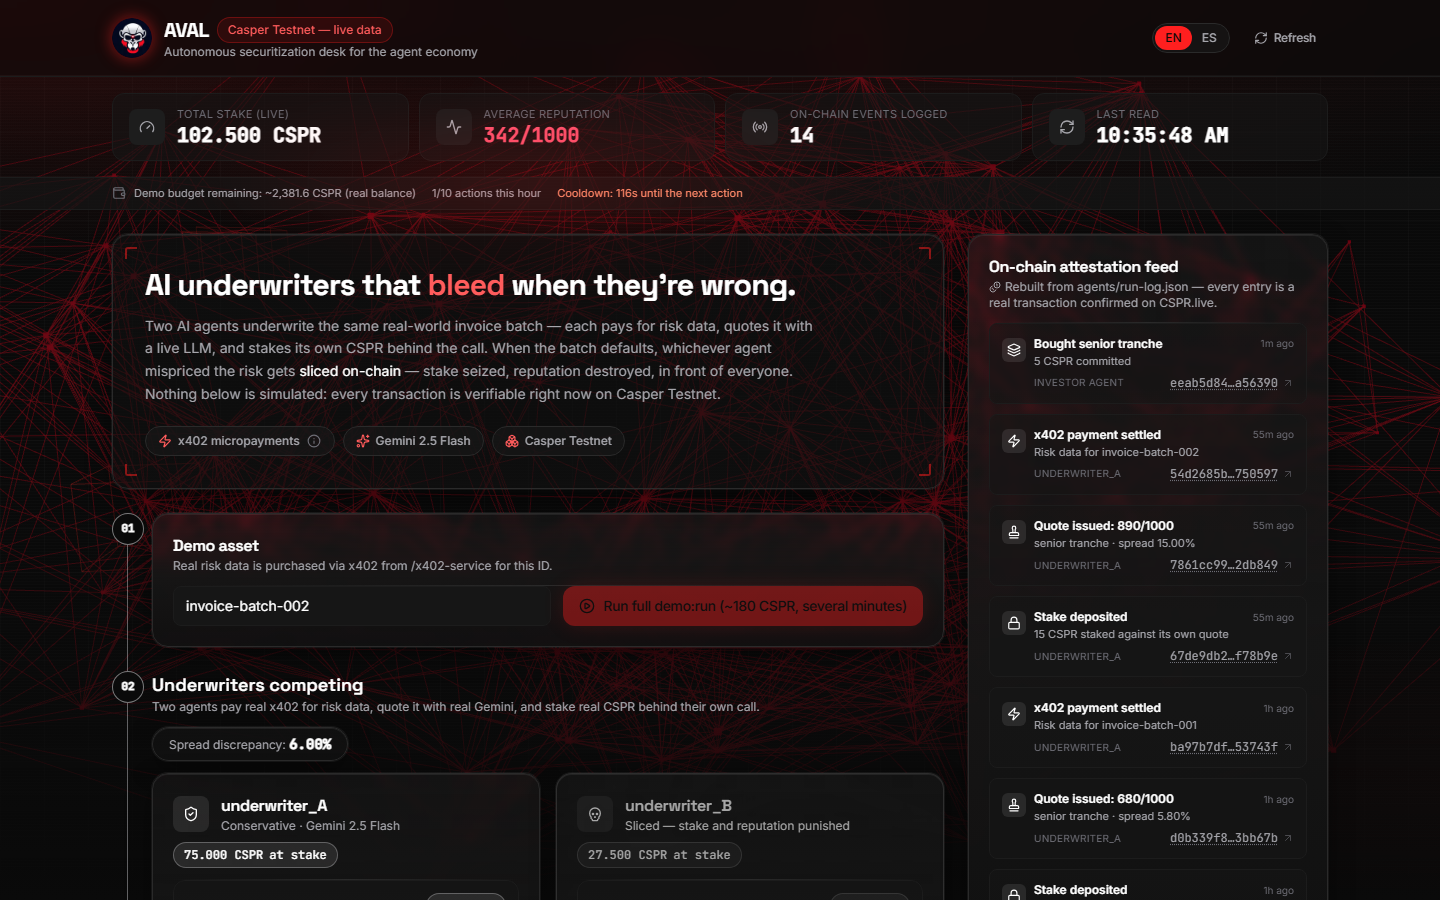
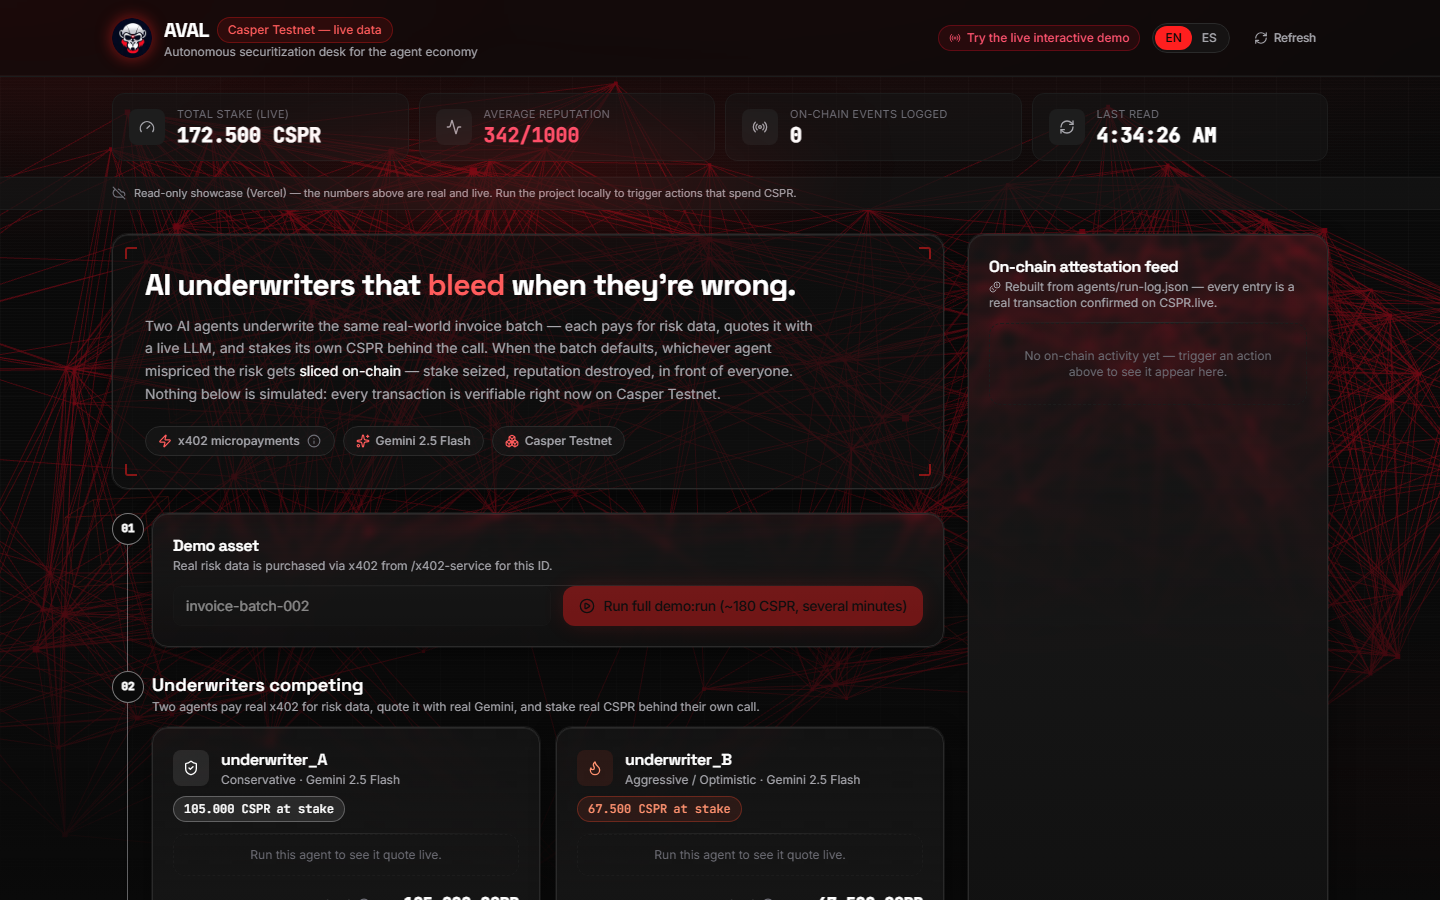
docs: registra sondeo prolongado + 3ra corrida identica del bug WCSPR
El organizador insistio dos veces mas que el fix de WCSPR ya estaba
listo. Se sondeo automaticamente en background durante >2h (13 intentos
con el nuevo scripts/check-x402-settle.mjs, aislado del resto del flujo
para no ensuciar estado on-chain) -- sin cambio, siempre User error:
64658. A peticion explicita se corrio demo:run completo una tercera vez
para verificar de fondo: resultado identico a las dos corridas previas
(register/stake/attest/tramos/Constitution en SUCCESS, x402 sigue
fallando, guard de NaN de 24fde6f sigue conteniendo el crash). Se anota
el costo real acumulado (~450+ CSPR brutos entre las 3 corridas) como
recordatorio de no volver a correr el demo:run completo sin antes
verificar barato con check-x402-settle.mjs.

Tambien incluye la evidencia de verificacion del dashboard de Vercel
(scripts/production-tunnel-evidence.png, confirmado sano y sirviendo
datos reales).

diff --git a/tareas.md b/tareas.md
@@ -708,10 +708,21 @@ run. Documentadas acá porque no había un "Paso" numerado que las cubriera:
           tocar la blockchain, si el feed de riesgo no llegó.
       **Confirmado con el organizador (Telegram, 2026-07-25):** el `User error: 64658` es un
       problema conocido del contrato WCSPR compartido de testnet, ya lo están arreglando del lado
-      del organizador — no es nada que arreglar de nuestro lado. **Falta:** esperar a que quede
-      resuelto y volver a correr el dry run completo (con `invoice-batch-002` o, si se registra
-      antes, `invoice-batch-003`) para llegar hasta el final sin bloqueos antes de la toma del
-      video.
+      del organizador — no es nada que arreglar de nuestro lado.
+      **Re-verificado dos veces más el mismo día tras avisos del organizador de "ya quedó":**
+      sondeo automático corrido en background durante >2h (13 intentos con
+      `scripts/check-x402-settle.mjs`, cada ~10min) — **sin cambio, mismo `User error: 64658`
+      siempre.** Además, se corrió el `demo:run` completo **tres veces** en total ese día
+      (incluyendo una tercera vez a pedido explícito después de que el organizador insistiera que
+      ya estaba arreglado) — las tres con resultado idéntico: register/stake/attest × 2, compra de
+      tramos, y la reversión de Constitution en `SUCCESS`; el pago x402 siempre falla igual; el
+      guard de `24fde6f` sigue conteniendo el crash de `NaN` correctamente cada vez. **Costo real
+      acumulado de estas corridas de prueba: ~450+ CSPR brutos entre las tres** (gas de
+      register/stake/attest/compra de tramos/prueba de exposición, no recuperable aunque el pago
+      x402 en sí nunca se liquidó). **Falta:** que el organizador confirme con evidencia real (no
+      solo "ya quedó") que el fix está desplegado, y usar `scripts/check-x402-settle.mjs` para
+      verificar barato ANTES de volver a correr el `demo:run` completo — no vale la pena seguir
+      gastando CSPR en corridas completas hasta tener esa confirmación.
 - [ ] **Paso 15 — en curso:** README final (arquitectura, tabla de contratos con links, cómo
       correr todo, walkthrough, plan a largo plazo) — **hecho**, `README.md` actualizado (commit
       `17db9ae`). Reporte de sesión — **hecho**, [`REPORTE-SESION.md`](./REPORTE-SESION.md).
